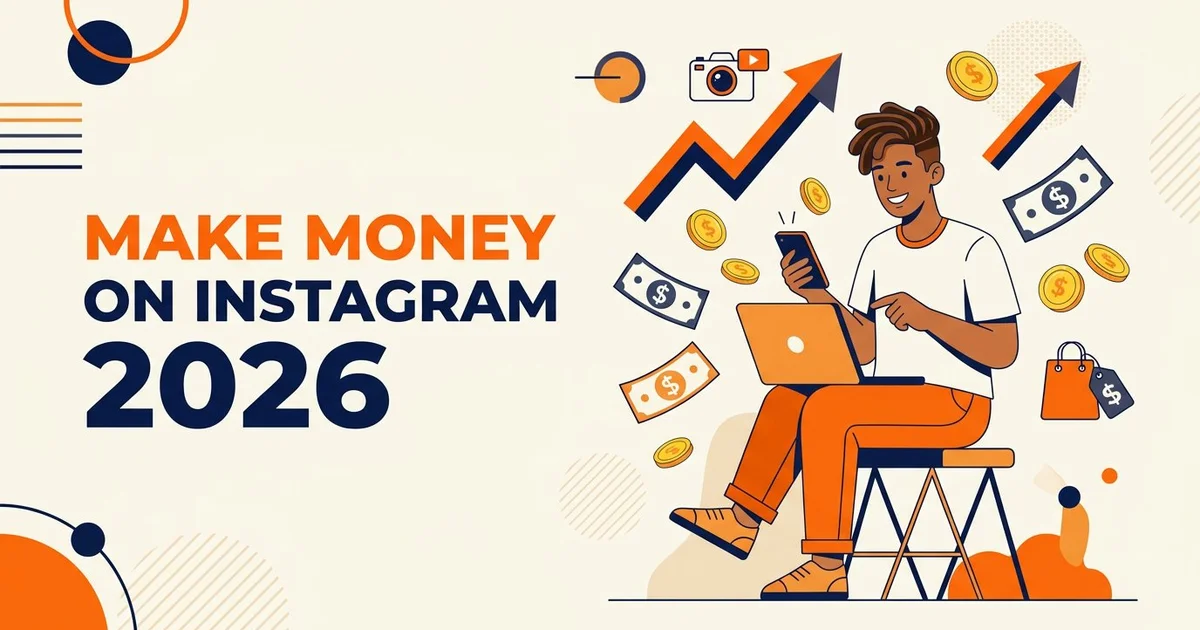
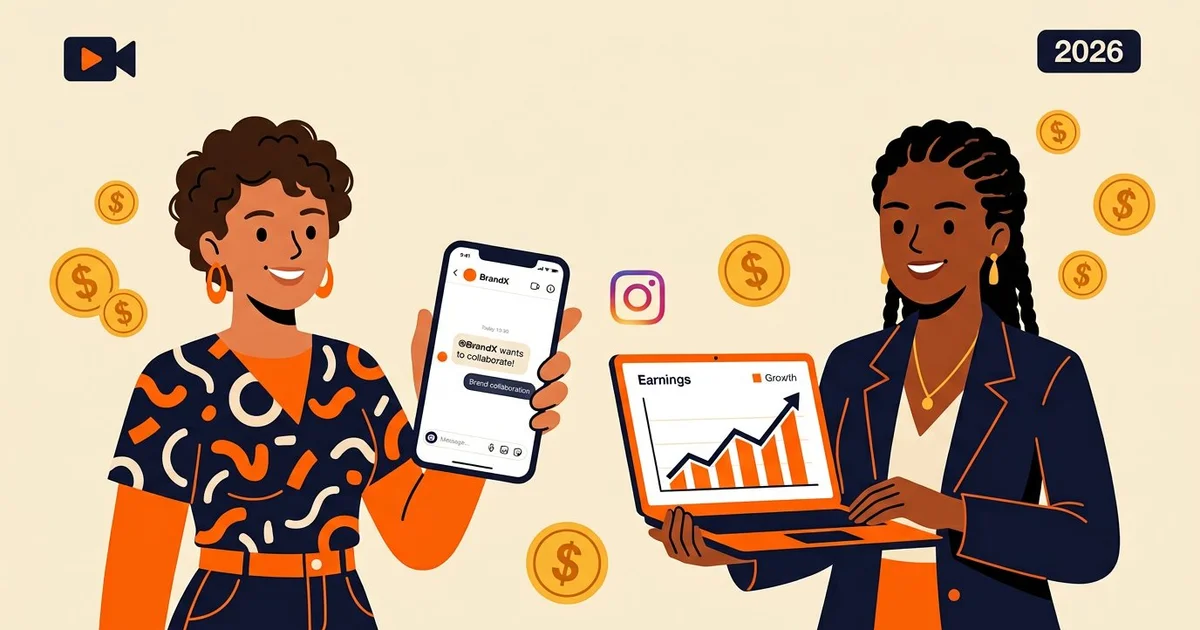
AdSense/spam-safety hardening + new hero image
AdSense rejection / Google spam-policy audit findings, fixed:
- Contact page was not linked in footer (trust-signal gap for AdSense
  review) -> added
- Cookie consent banner was missing on this page while it exists
  sitewide on index.html -> ported the exact same banner (GDPR/CCPA
  relevant, matters for AdSense EU/UK traffic)
- Verified: no keyword stuffing (1.0% density), no manual ad-unit
  stuffing (1 auto-ads script only), no hidden/cloaked text, all
  external links have rel=nofollow noopener, FTC affiliate disclosure
  present, YMYL educational disclaimer present, dateModified bump was
  tied to real content changes (not deceptive freshness) - page is
  clear of the flagged 2026 spam-policy patterns (scaled content abuse,
  cloaking, keyword stuffing, doorway pages)

New hero image: two illustrated female creators (brand-safe, cute,
professional style) matching the post's brand-deal + earnings-growth
narrative, replacing the previous single-character illustration.

diff --git a/blog/make-money-on-instagram-2026.html b/blog/make-money-on-instagram-2026.html
@@ -155,6 +155,16 @@ footer{border-top:1px solid #e5e7eb;margin-top:38px;padding:24px 0 38px;font-siz
 footer a{color:#64748b;text-decoration:none}
 #toast{position:fixed;left:50%;bottom:26px;transform:translateX(-50%) translateY(20px);background:#0f172a;color:#fff;font-size:13.5px;font-weight:600;padding:11px 22px;border-radius:999px;opacity:0;pointer-events:none;transition:.25s;z-index:99}
 #toast.show{opacity:1;transform:translateX(-50%) translateY(0)}
+.cookie-banner{position:fixed;bottom:16px;left:16px;right:16px;max-width:520px;background:#fff;border:1px solid #e5e7eb;border-radius:14px;padding:16px 18px;box-shadow:0 16px 40px rgba(0,0,0,.14);font-size:13.5px;color:#1e293b;line-height:1.6;z-index:900;display:none}
+.cookie-banner.show{display:block;animation:fadeUp .3s ease}
+@keyframes fadeUp{from{opacity:0;transform:translateY(10px)}to{opacity:1;transform:translateY(0)}}
+.cookie-banner a{color:#f97316;text-decoration:underline}
+.cookie-banner-row{display:flex;gap:10px;margin-top:12px}
+.cookie-banner button{flex:1;border:0;padding:9px 14px;border-radius:999px;font-family:inherit;font-weight:600;font-size:13px;cursor:pointer}
+.cookie-accept{background:#0f172a;color:#fff}
+.cookie-accept:hover{background:#f97316}
+.cookie-decline{background:transparent;border:1px solid #e5e7eb!important;color:#64748b}
+@media(max-width:520px){.cookie-banner{left:10px;right:10px;bottom:10px;max-width:none}}
 @media(max-width:640px){.hero-img .tag{display:none}}
 @media(max-width:700px){.site-head .nav{display:none}.hamburger{display:flex}}
 </style>
@@ -191,7 +201,7 @@ footer a{color:#64748b;text-decoration:none}
     <h1>How to Make Money on Instagram in 2026: <span class="h1-u">Real US Rates</span></h1>
     <p class="sub">Every "passive income" reel is lying about the math — so here’s the honest version. This guide covers the <b>5 real revenue streams</b> (brand deals, affiliate, UGC, digital products, memberships), <b>US pricing per follower tier</b>, the <b>best affiliate programs</b>, and a <b>follower-to-income table</b> with realistic ranges. No hype — you’ll know exactly where your first $500 comes from.</p>
     <div class="hero-img">
-      <img src="https://captionstudio.in/img/make-money-instagram-2026-hero.webp" alt="Creator reading a brand collaboration DM on Instagram with rising earnings chart and dollar icons, global creator monetization 2026" width="1200" height="630" fetchpriority="high" decoding="async">
+      <img src="https://captionstudio.in/img/make-money-instagram-2026-hero.webp" alt="Two young content creators celebrating an Instagram brand collaboration offer and a rising earnings chart on a laptop, global creator monetization 2026" width="1200" height="630" fetchpriority="high" decoding="async">
       <span class="tag">Global Edition · CaptionStudio</span>
     </div>
     <div class="btns">
@@ -324,16 +334,35 @@ Main Ansh, CaptionStudio ka founder. Jab maine 2024 me apna pehla UGC gig US bra
   <div class="wrap">
     <b>CaptionStudio</b> · Creator growth toolkit · <a href="https://captionstudio.in/">Home</a> ·
     <a href="https://captionstudio.in/tools">Tools</a> · <a href="https://captionstudio.in/about">About</a> ·
-    <a href="https://captionstudio.in/terms">Terms</a> · <a href="https://captionstudio.in/privacy">Privacy</a><br>
+    <a href="https://captionstudio.in/terms">Terms</a> · <a href="https://captionstudio.in/privacy">Privacy</a> · <a href="https://captionstudio.in/contact">Contact</a><br>
     © 2026 CaptionStudio. All rights reserved.
   </div>
 </footer>
 <div id="toast" role="status" aria-live="polite">✅ Copied!</div>
+<div class="cookie-banner" id="cookieBanner" role="dialog" aria-label="Cookie notice">
+  We use cookies for analytics &amp; to improve your experience. By using CaptionStudio you agree to our
+  <a href="https://captionstudio.in/privacy">Privacy Policy</a>.
+  <div class="cookie-banner-row">
+    <button class="cookie-accept" onclick="acceptCookies()">Accept</button>
+    <button class="cookie-decline" onclick="declineCookies()">Decline</button>
+  </div>
+</div>
 <script>
 function doCopy(t){var d=function(){toast('✅ Copied to clipboard!');};
  if(navigator.clipboard&&navigator.clipboard.writeText){navigator.clipboard.writeText(t).then(d).catch(function(){legacy(t);d();});}else{legacy(t);d();}}
 function legacy(t){var ta=document.createElement('textarea');ta.value=t;ta.style.position='fixed';ta.style.opacity='0';document.body.appendChild(ta);ta.select();try{document.execCommand('copy');}catch(e){}document.body.removeChild(ta);}
 function toast(m){var el=document.getElementById('toast');el.textContent=m;el.classList.add('show');clearTimeout(el._t);el._t=setTimeout(function(){el.classList.remove('show');},1500);}
+(function initCookie(){
+  var banner=document.getElementById('cookieBanner');
+  if(!banner)return;
+  try{
+    if(!localStorage.getItem('cs_cookie_choice')){
+      setTimeout(function(){banner.classList.add('show');},1200);
+    }
+  }catch(e){}
+})();
+function acceptCookies(){try{localStorage.setItem('cs_cookie_choice','accept');}catch(e){}document.getElementById('cookieBanner').classList.remove('show');}
+function declineCookies(){try{localStorage.setItem('cs_cookie_choice','decline');}catch(e){}document.getElementById('cookieBanner').classList.remove('show');}
 (function(){
   var ham=document.getElementById('hamBtn'), menu=document.getElementById('mobileMenu');
   if(!ham||!menu)return;
